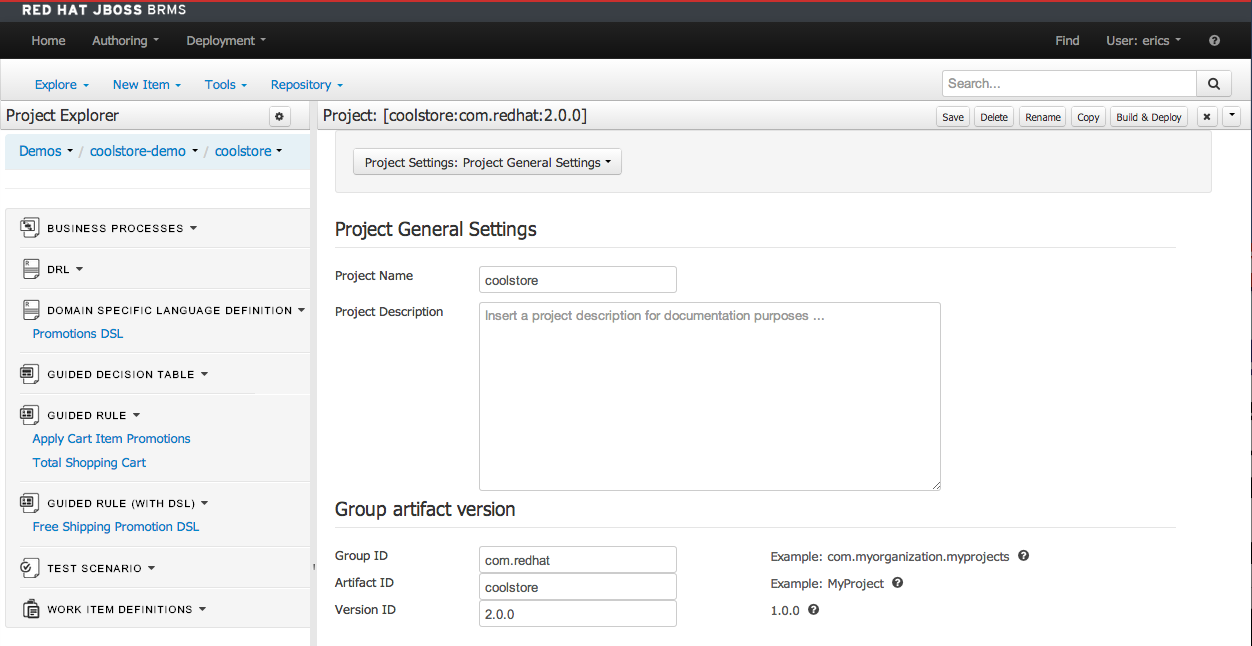
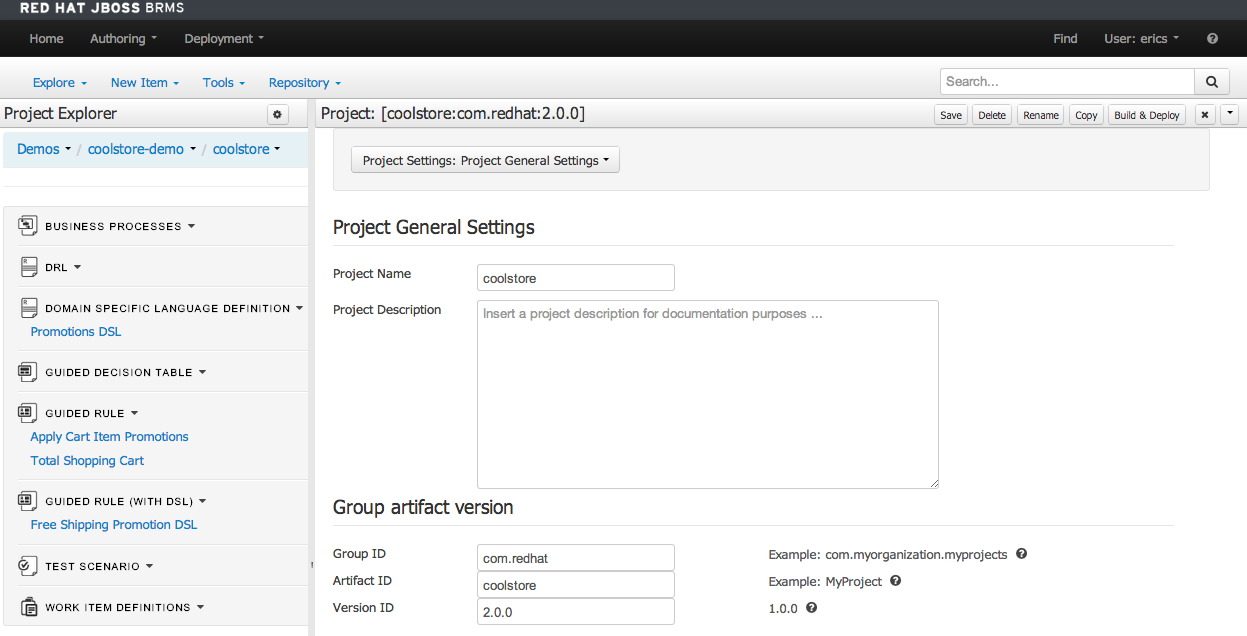
Changed image presentation.

diff --git a/css/theme/jte.css b/css/theme/jte.css
@@ -171,7 +171,7 @@ body {
     background-image: url("/images/brms_bpms_workshop/image40.png");
     background-repeat:no-repeat;
     background-position: center;
-    background-size: contain;
+    background-size: auto;
 
 }
 
@@ -180,7 +180,7 @@ body {
     background-image: url("/images/brms_bpms_workshop/image48.png");
     background-repeat:no-repeat;
     background-position: center;
-    background-size: contain;
+    background-size: auto;
 
 }
 
